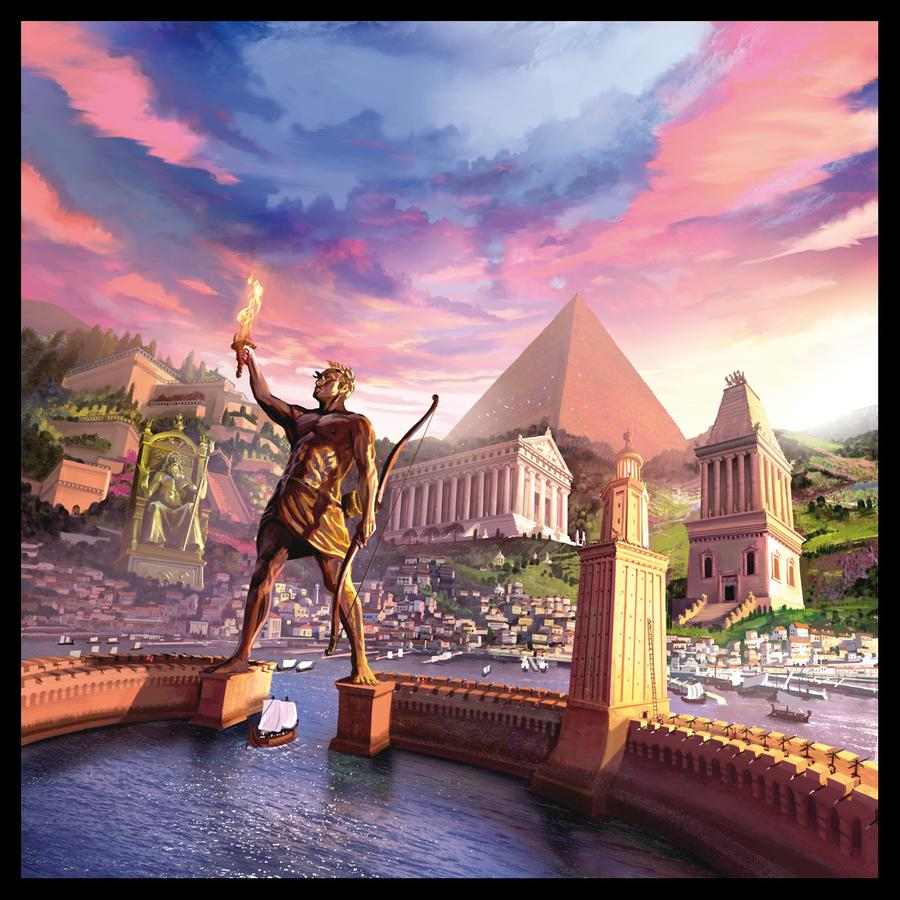
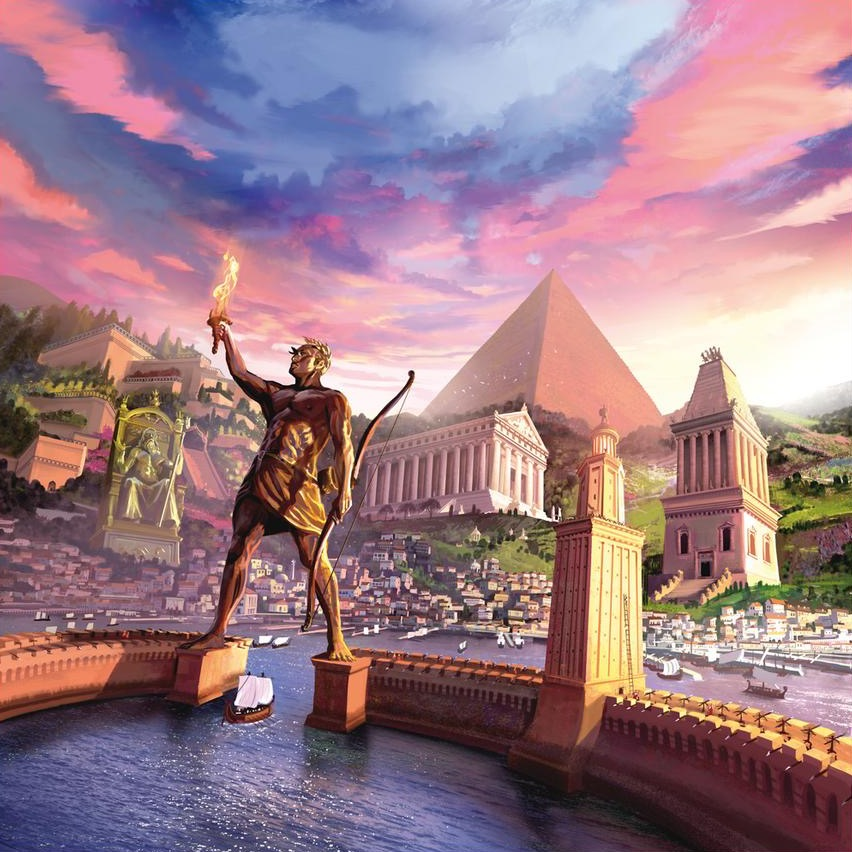
feat(web): fit login and lobby on phones; crop login art frame

diff --git a/e2e/tests/responsive.spec.ts b/e2e/tests/responsive.spec.ts
@@ -1,5 +1,5 @@
 import { expect, test } from "@playwright/test";
-import { newPlayer } from "./support/game";
+import { closeAll, newPlayer, setupTable } from "./support/game";
 import {
   LONG_NAME_PREFIX,
   VIEWPORTS,
@@ -23,6 +23,10 @@ for (const vp of VIEWPORTS) {
       await expectViewport(page, vp);
       await expectNoHorizontalScroll(page);
       await expect(page.locator("#login-submit")).toBeVisible();
+      // "7 WONDERS" stays on one line.
+      const title = page.locator("#login-title");
+      const lineHeight = await title.evaluate((el) => parseFloat(getComputedStyle(el).lineHeight));
+      expect((await boxOf(title)).height).toBeLessThanOrEqual(lineHeight * 1.2);
     });
 
     test("lobby header and notifications fit", async ({ browser }) => {
@@ -48,6 +52,29 @@ for (const vp of VIEWPORTS) {
       }
 
       for (const player of [owner, guest]) await player.context.close();
+    });
+
+    test("lobby controls fit", async ({ browser }) => {
+      const { owner, players } = await setupTable(browser, 2, LONG_NAME_PREFIX);
+      const page = owner.page;
+      await expectViewport(page, vp);
+      await expectNoHorizontalScroll(page);
+      await expect(page.locator("#invite-button")).toBeInViewport({ ratio: 1 });
+      await expect(page.locator("#start-game")).toBeVisible();
+
+      if (vp.width < 640) {
+        // Phones: the invite button sits under the select, full width.
+        const select = await boxOf(page.locator("#invite_user_id"));
+        const button = await boxOf(page.locator("#invite-button"));
+        expect(button.y).toBeGreaterThanOrEqual(select.y + select.height);
+        expect(button.width).toBeGreaterThanOrEqual(select.width - 1);
+      }
+      if (vp.touch) {
+        await expectTapTargets(page.locator("[id^='uninvite-']"));
+        await expectTapTargets(page.locator("#start-game, #invite-button"));
+      }
+
+      await closeAll(players);
     });
   });
 }
